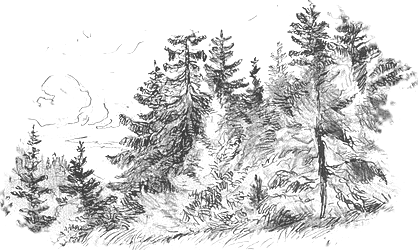
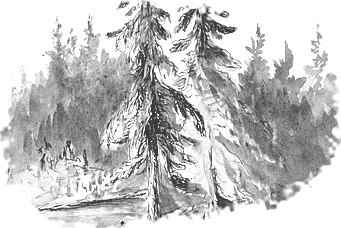
Use Header pines P in the header instead of R
Header: mountain landscape with firs, ink and wash (Rijksmuseum, CC0).

Claude-Session: https://claude.ai/code/session_01MtzyJF68hNVMNfzjgJWMXC

diff --git a/assets/css/style.css b/assets/css/style.css
@@ -70,7 +70,7 @@ a:hover { text-decoration-color: var(--ink); }
 .logo-pines {
   display: block;
   width: 120px;
-  aspect-ratio: 418 / 250;
+  aspect-ratio: 341 / 228;
   margin: -14px 0 -10px;
   background: url("../img/ornaments/pines.png?v=4") center / contain no-repeat;
 }

diff --git a/README.md b/README.md
@@ -47,7 +47,7 @@ To add one, save the PNG in that folder, add a `.ornament-name` rule next to the
 
 | Section | File | Source |
 | --- | --- | --- |
-| Header | `pines.png` | A stand of firs, pencil study, Rijksmuseum (CC0) |
+| Header | `pines.png` | Mountain landscape with firs, ink and wash, Rijksmuseum (CC0) |
 | Wildlife | `wildlife.png` | Ducks at Dawn, Frank W. Benson (public domain) |
 | Nature | `nature.png` | Mountain Meadow, Alexandre Calame, 1840, National Gallery of Art (CC0) |
 | Humanistics | `humanistics.png` | An Archway, Chioggia, Muirhead Bone (public domain) |
